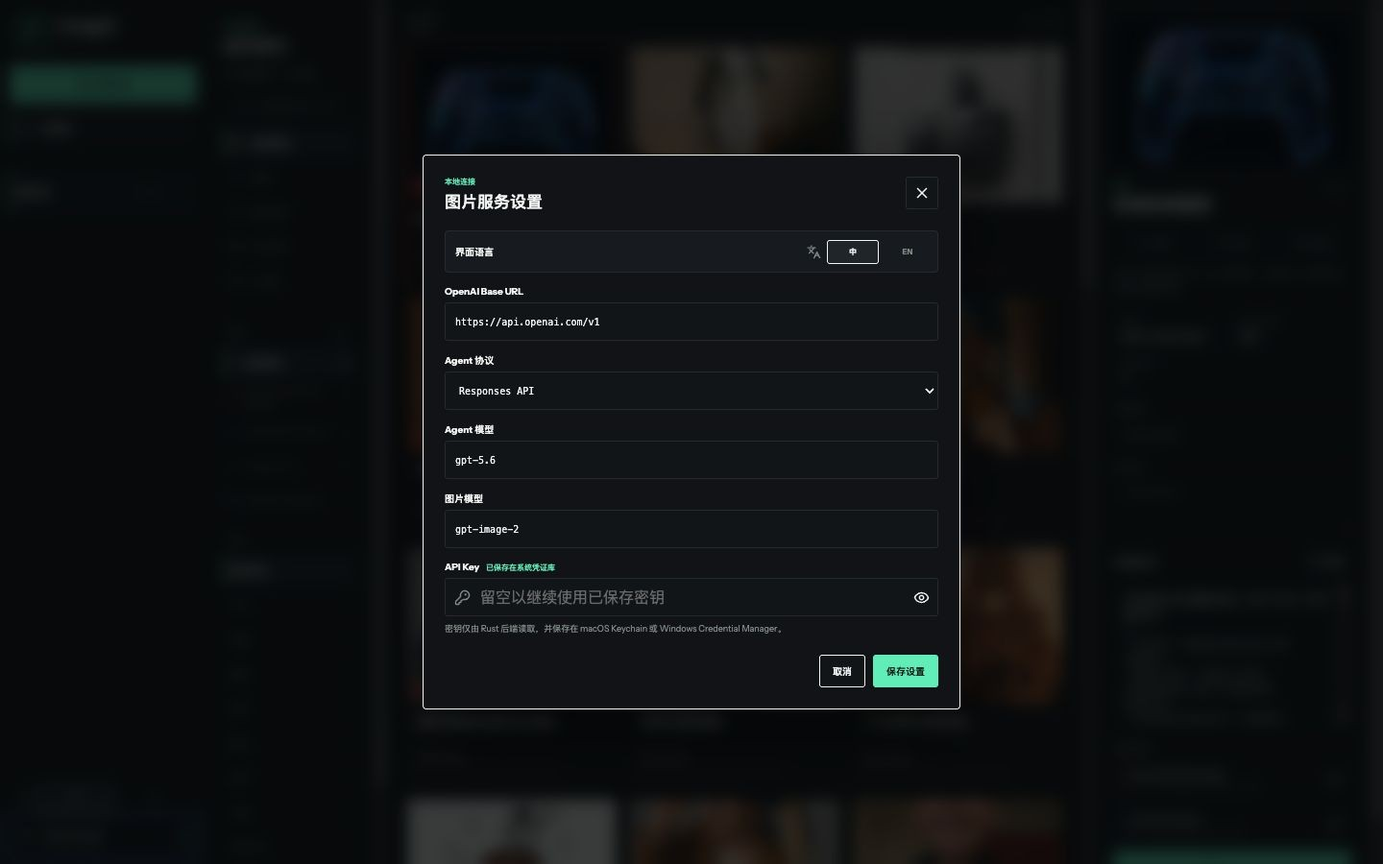
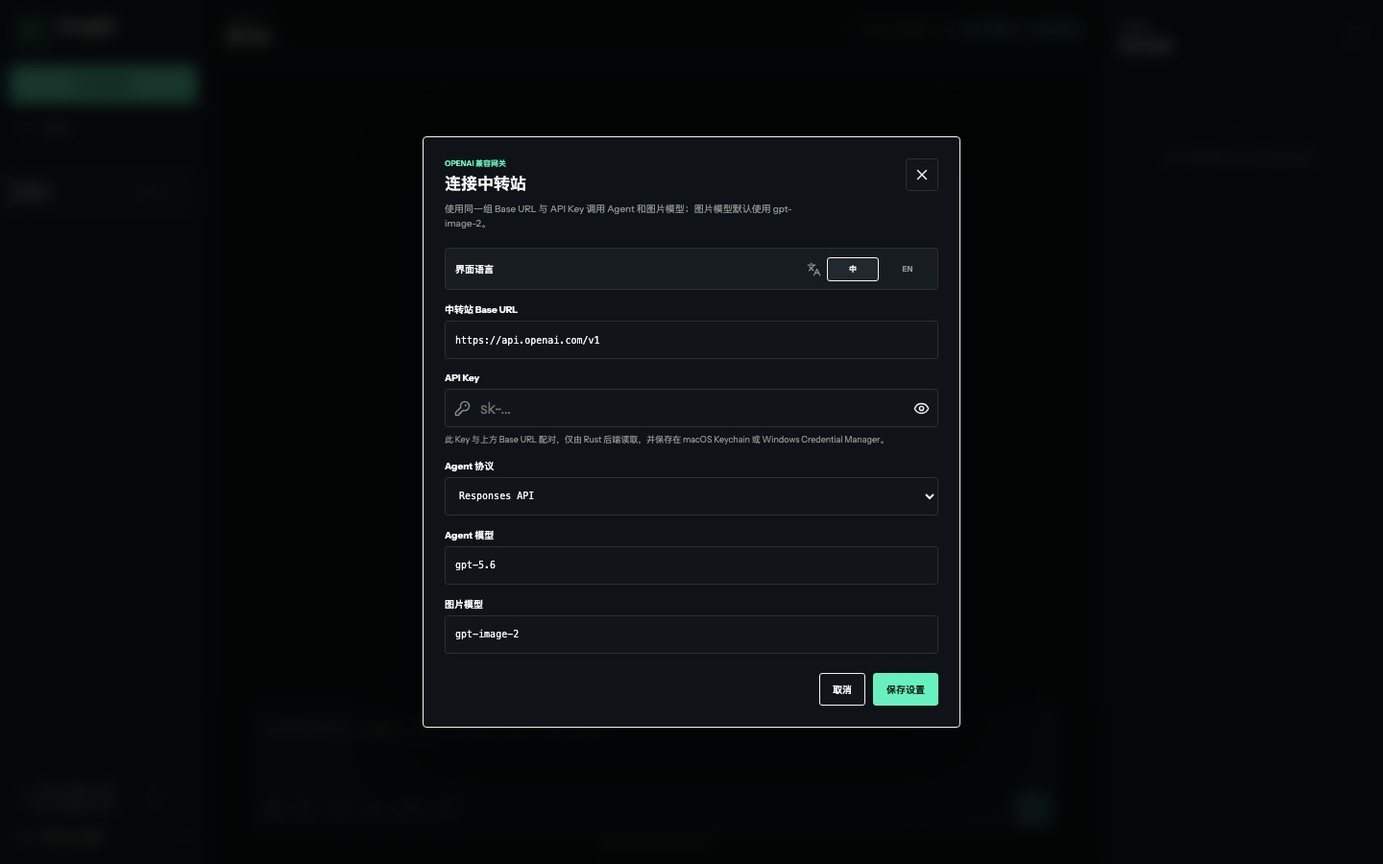
refactor: center gateway setup

diff --git a/src/i18n/en.ts b/src/i18n/en.ts
@@ -9,9 +9,9 @@ export const en = {
 
   "common.cancel": "Cancel", "common.close": "Close", "common.copy": "Copy", "common.copied": "Copied", "common.delete": "Delete", "common.done": "Done", "common.download": "Export", "common.error": "Error", "common.loading": "Loading", "common.normal": "Normal", "common.other": "Other", "common.save": "Save", "common.saving": "Saving", "common.stale": "Stale snapshot", "common.unknownError": "Unknown error", "common.items": "ITEMS", "common.auto": "Auto", "common.adaptive": "Adaptive",
 
-  "settings.eyebrow": "Local connection", "settings.title": "Image service settings", "settings.open": "Connection settings", "settings.close": "Close settings", "settings.baseUrl": "OpenAI Base URL", "settings.agentProtocol": "Agent protocol", "settings.responsesApi": "Responses API", "settings.chatCompletions": "Chat Completions", "settings.agentModel": "Agent model", "settings.imageModel": "Image model", "settings.apiKey": "API Key", "settings.apiKeySaved": "Saved in system credential store", "settings.keepSavedKey": "Leave blank to keep using the saved key", "settings.showKey": "Show key", "settings.hideKey": "Hide key", "settings.keyNote": "The key is read only by the Rust backend and stored in macOS Keychain or Windows Credential Manager.", "settings.save": "Save settings", "settings.saved": "Connection settings saved",
+  "settings.eyebrow": "OPENAI-COMPATIBLE GATEWAY", "settings.title": "Connect a gateway", "settings.description": "Use one Base URL and API key for both the agent and image model; the default image model is gpt-image-2.", "settings.open": "Gateway settings", "settings.close": "Close settings", "settings.baseUrl": "Gateway Base URL", "settings.agentProtocol": "Agent protocol", "settings.responsesApi": "Responses API", "settings.chatCompletions": "Chat Completions", "settings.agentModel": "Agent model", "settings.imageModel": "Image model", "settings.apiKey": "API Key", "settings.apiKeySaved": "Saved in system credential store", "settings.keepSavedKey": "Leave blank to keep using the saved key", "settings.showKey": "Show key", "settings.hideKey": "Hide key", "settings.keyNote": "This key is paired with the Base URL above, read only by the Rust backend, and stored in macOS Keychain or Windows Credential Manager.", "settings.save": "Save settings", "settings.saved": "Gateway settings saved",
 
-  "app.loadingWorkspace": "Loading local workspace", "app.configureApiKey": "Configure an API Key first", "app.sendCancelled": "Send cancelled; no image tasks were created", "app.continueDefaultPrompt": "Continue from this image and only change what I describe next.", "app.continueAttached": "This version is now the reference for the next step", "app.regenerateReady": "The original task is back in the composer; send it to regenerate", "app.versionRenamed": "Version name updated", "app.hideVersionConfirm": "Hide this version? Its file and version relationships will remain.", "app.hideVersionChildrenConfirm": "This version has {count} child versions. Hiding it will not delete files or child versions. Continue?", "app.versionHidden": "Version hidden from the asset picker", "app.templateAdded": "“{title}” was added to the current conversation", "app.catalogChecked": "Inspiration catalog checked: {added} added, {updated} updated, {archived} archived", "app.catalogImported": "Local inspiration data imported", "app.deleteConversationConfirm": "Delete this conversation? Generated images will remain in asset history.", "app.closeNotice": "Dismiss notification",
+  "app.loadingWorkspace": "Loading local workspace", "app.configureApiKey": "Configure a Base URL and API key in Gateway settings first", "app.sendCancelled": "Send cancelled; no image tasks were created", "app.continueDefaultPrompt": "Continue from this image and only change what I describe next.", "app.continueAttached": "This version is now the reference for the next step", "app.regenerateReady": "The original task is back in the composer; send it to regenerate", "app.versionRenamed": "Version name updated", "app.hideVersionConfirm": "Hide this version? Its file and version relationships will remain.", "app.hideVersionChildrenConfirm": "This version has {count} child versions. Hiding it will not delete files or child versions. Continue?", "app.versionHidden": "Version hidden from the asset picker", "app.templateAdded": "“{title}” was added to the current conversation", "app.catalogChecked": "Inspiration catalog checked: {added} added, {updated} updated, {archived} archived", "app.catalogImported": "Local inspiration data imported", "app.deleteConversationConfirm": "Delete this conversation? Generated images will remain in asset history.", "app.closeNotice": "Dismiss notification",
 
   "workspace.newConversation": "New conversation", "workspace.renameConversation": "Rename conversation", "workspace.deleteConversation": "Delete {title}", "workspace.deleteConversationTitle": "Delete conversation", "workspace.mainNavigation": "Main navigation", "workspace.inspiration": "Inspiration", "workspace.conversationList": "Conversation list", "workspace.currentConversation": "Current conversation", "workspace.you": "You", "workspace.agentThinking": "Understanding the request and planning tasks", "workspace.emptyTitle": "Start with a goal", "workspace.emptyDescription": "Upload references and describe the assets you need. The Agent will split them into tasks and generate them in order.", "workspace.examplePortrait": "Character views", "workspace.exampleProduct": "Product angles", "workspace.exampleCampaign": "Campaign assets", "workspace.annotationEdit": "Annotated edit", "workspace.historyImage": "History image", "workspace.moveEarlier": "Move {name} earlier", "workspace.moveLater": "Move {name} later", "workspace.moveEarlierTitle": "Move earlier", "workspace.moveLaterTitle": "Move later", "workspace.removeAttachment": "Remove attachment", "workspace.priority": "{label} priority", "workspace.analyzingReference": "Analyzing reference", "workspace.analyzingReferenceDescription": "The Agent is choosing a better aspect ratio and quality.", "workspace.recommendation": "Recommended {aspectRatio} · {quality}", "workspace.applyRecommendation": "Apply recommendation", "workspace.keepCurrent": "Keep current", "workspace.composerPlaceholder": "Describe a set of images, for example: keep this makeup and generate three views", "workspace.composerLabel": "Message Image2 Agent", "workspace.insertReference": "Insert reference", "workspace.addReference": "Add reference image", "workspace.selectHistory": "Choose history image", "workspace.historyAssets": "Asset history", "workspace.inspectEditRequest": "Inspect edit request", "workspace.generationParams": "Generation parameters", "workspace.resolution": "Resolution", "workspace.aspectRatio": "Aspect ratio", "workspace.quality": "Quality", "workspace.format": "Format", "workspace.qualityLow": "Draft", "workspace.qualityMedium": "Standard", "workspace.qualityHigh": "High", "workspace.send": "Send", "workspace.cancelSend": "Cancel send", "workspace.serialQueueNote": "Tasks run one at a time in the queue on the right", "workspace.noAssets": "No images available yet.", "workspace.closeAssetPicker": "Close asset picker", "workspace.runwayEyebrow": "Runway", "workspace.serialTasks": "Serial tasks", "workspace.queueEmpty": "Tasks created by the Agent will appear here in order.", "workspace.taskCount": "{count} tasks", "workspace.stopBatch": "Stop batch", "workspace.resumeBatch": "Resume batch", "workspace.editRequest": "Edit request", "workspace.structuredDocumentCount": "{count} structured documents", "workspace.closeRequestInspection": "Close request inspection", "workspace.referenceRole": "{label} reference roles", "workspace.primaryRole": "Primary role: {role}", "workspace.primaryRoleCompact": "Primary:{role}", "workspace.preserveConstraints": "Preserve", "workspace.preservePlaceholder": "Subject structure, unmarked areas", "workspace.preview": "Preview {title}", "workspace.annotationAttachment": "Annotation: {instruction}", "workspace.generatedImage": "Generated image", "workspace.regenerate": "Regenerate {title}", "workspace.regenerateTitle": "Regenerate", "workspace.continue": "Continue from {title}", "workspace.continueTitle": "Continue from this image", "workspace.exportTitle": "Export {title}", "workspace.compare": "Compare {title}", "workspace.compareTitle": "Before/after", "workspace.renameVersion": "Rename {title}", "workspace.renameVersionTitle": "Rename version", "workspace.versionNamePrompt": "Version name", "workspace.hideVersion": "Hide {title}", "workspace.hideVersionTitle": "Hide version", "workspace.annotate": "Annotate {title}", "workspace.annotateTitle": "Annotated edit", "workspace.revision": "R{revision} · {kind}", "workspace.childVersion": "Child version", "workspace.rootVersion": "Root version", "workspace.branchCount": "{count} branches", "workspace.retry": "Retry {title}", "workspace.retryTitle": "Retry", "workspace.compareDialog": "Before/after comparison", "workspace.versionCompare": "Version comparison", "workspace.parentVersion": "Parent version", "workspace.currentVersion": "Current version", "workspace.selectSibling": "Choose sibling version", "workspace.closeCompare": "Close comparison", "workspace.adjustCompare": "Adjust before/after comparison",
 

diff --git a/site/en/index.html b/site/en/index.html
@@ -88,7 +88,7 @@
         </div>
       </section>
 
-      <section class="studio-section" id="studio" aria-labelledby="studio-title"><div class="section-shell"><header class="section-heading split-heading"><div><p class="section-index">DESKTOP SYSTEM</p><h2 id="studio-title">Not another prompt box.</h2></div><p>Image2 puts conversations, references, generation controls, serial tasks, and versioned results on one quiet desktop surface. Your key stays in the OS credential store; images and conversations stay local.</p></header><figure class="studio-figure"><img src="/images/studio-workspace-dark.jpg" width="1920" height="1080" alt="Image2 Studio dark desktop workspace" loading="lazy" /><figcaption><span>LIVE INTERFACE</span><span>Conversation / References / Serial Queue / Versions</span></figcaption></figure><div class="feature-ledger"><article><span>01 / CONNECT</span><h3>Use your gateway</h3><p>Set an HTTPS Base URL, Responses or Chat Completions, and your agent and image model names.</p></article><article><span>02 / COMPOSE</span><h3>Describe and reference</h3><p>Assign identity, product, pose, composition, material, and style roles to references.</p></article><article><span>03 / CONTROL</span><h3>Run a strict queue</h3><p>Every direction is its own task, with clear stop, resume, retry, and cost-control states.</p></article><article><span>04 / REFINE</span><h3>Continue from any version</h3><p>Mark regions for local changes, preserve parent-child history, and branch from older results.</p></article></div></div></section>
+      <section class="studio-section" id="studio" aria-labelledby="studio-title"><div class="section-shell"><header class="section-heading split-heading"><div><p class="section-index">DESKTOP SYSTEM</p><h2 id="studio-title">Not another prompt box.</h2></div><p>Image2 puts conversations, references, generation controls, serial tasks, and versioned results on one quiet desktop surface. Your key stays in the OS credential store; images and conversations stay local.</p></header><figure class="studio-figure"><img src="/images/studio-workspace-dark.jpg" width="1920" height="1080" alt="Image2 Studio dark desktop workspace" loading="lazy" /><figcaption><span>LIVE INTERFACE</span><span>Conversation / References / Serial Queue / Versions</span></figcaption></figure><div class="feature-ledger"><article><span>01 / CONNECT</span><h3>Use your gateway</h3><p>Enter an HTTPS Base URL and API key, choose the agent protocol, and set the agent and gpt-image-2 model names.</p></article><article><span>02 / COMPOSE</span><h3>Describe and reference</h3><p>Assign identity, product, pose, composition, material, and style roles to references.</p></article><article><span>03 / CONTROL</span><h3>Run a strict queue</h3><p>Every direction is its own task, with clear stop, resume, retry, and cost-control states.</p></article><article><span>04 / REFINE</span><h3>Continue from any version</h3><p>Mark regions for local changes, preserve parent-child history, and branch from older results.</p></article></div></div></section>
 
       <section class="workflow-section" id="workflow" aria-labelledby="workflow-title"><div class="section-shell workflow-layout"><header><p class="section-index">TASK PIPELINE</p><h2 id="workflow-title">Complex requests, executed in order.</h2><p>The agent understands and plans. The desktop app turns every paid call into a visible task you can stop, resume, and inspect.</p></header><ol class="workflow-list"><li><span>INPUT</span><div><h3>Write the goal, add references</h3><p>One request can combine subjects, style, copy, ratio, and multiple reference images.</p></div><code>01</code></li><li><span>PLAN</span><div><h3>Split it into images</h3><p>Every output has a title, prompt, parameters, and explicit reference relationships.</p></div><code>02</code></li><li><span>RUN</span><div><h3>Execute strictly in series</h3><p>Only one image task runs at a time, avoiding gateway rate limits and surprise concurrency costs.</p></div><code>03</code></li><li><span>ITERATE</span><div><h3>Mark and continue</h3><p>Points, boxes, arrows, and painted regions compile into a structured edit request.</p></div><code>04</code></li></ol></div></section>
 

diff --git a/src/components/SettingsDialog.tsx b/src/components/SettingsDialog.tsx
@@ -49,6 +49,7 @@ export function SettingsDialog({ open, settings, onClose, onSave }: SettingsDial
           <div>
             <span className="eyebrow">{t("settings.eyebrow")}</span>
             <h2>{t("settings.title")}</h2>
+            <p className="dialog-description">{t("settings.description")}</p>
           </div>
           <button className="icon-button" type="button" onClick={onClose} aria-label={t("settings.close")} title={t("common.close")}>
             <X size={18} />
@@ -69,6 +70,24 @@ export function SettingsDialog({ open, settings, onClose, onSave }: SettingsDial
           placeholder="https://api.openai.com/v1"
           required
         />
+
+        <label className="field-label" htmlFor="api-key">
+          {t("settings.apiKey")} {settings.hasApiKey && <span className="saved-badge">{t("settings.apiKeySaved")}</span>}
+        </label>
+        <div className="key-input-wrap">
+          <KeyRound size={17} aria-hidden="true" />
+          <input
+            id="api-key"
+            value={apiKey}
+            onChange={(event) => setApiKey(event.target.value)}
+            type={showKey ? "text" : "password"}
+            placeholder={settings.hasApiKey ? t("settings.keepSavedKey") : "sk-..."}
+          />
+          <button type="button" onClick={() => setShowKey((value) => !value)} aria-label={showKey ? t("settings.hideKey") : t("settings.showKey")} title={showKey ? t("settings.hideKey") : t("settings.showKey")}>
+            {showKey ? <EyeOff size={17} /> : <Eye size={17} />}
+          </button>
+        </div>
+        <p className="field-note">{t("settings.keyNote")}</p>
 
         <label className="field-label" htmlFor="agent-protocol">{t("settings.agentProtocol")}</label>
         <select id="agent-protocol" className="text-input mono" value={agentProtocol} onChange={(event) => setAgentProtocol(event.target.value as typeof agentProtocol)}>
@@ -95,24 +114,6 @@ export function SettingsDialog({ open, settings, onClose, onSave }: SettingsDial
           placeholder="gpt-image-2"
           required
         />
-
-        <label className="field-label" htmlFor="api-key">
-          {t("settings.apiKey")} {settings.hasApiKey && <span className="saved-badge">{t("settings.apiKeySaved")}</span>}
-        </label>
-        <div className="key-input-wrap">
-          <KeyRound size={17} aria-hidden="true" />
-          <input
-            id="api-key"
-            value={apiKey}
-            onChange={(event) => setApiKey(event.target.value)}
-            type={showKey ? "text" : "password"}
-            placeholder={settings.hasApiKey ? t("settings.keepSavedKey") : "sk-..."}
-          />
-          <button type="button" onClick={() => setShowKey((value) => !value)} aria-label={showKey ? t("settings.hideKey") : t("settings.showKey")} title={showKey ? t("settings.hideKey") : t("settings.showKey")}>
-            {showKey ? <EyeOff size={17} /> : <Eye size={17} />}
-          </button>
-        </div>
-        <p className="field-note">{t("settings.keyNote")}</p>
 
         <div className="dialog-actions">
           <button className="button secondary" type="button" onClick={onClose}>{t("common.cancel")}</button>

diff --git a/src/i18n/zh-CN.ts b/src/i18n/zh-CN.ts
@@ -24,11 +24,12 @@ export const zhCN = {
   "common.auto": "自动",
   "common.adaptive": "自适应",
 
-  "settings.eyebrow": "本地连接",
-  "settings.title": "图片服务设置",
-  "settings.open": "连接设置",
+  "settings.eyebrow": "OPENAI 兼容网关",
+  "settings.title": "连接中转站",
+  "settings.description": "使用同一组 Base URL 与 API Key 调用 Agent 和图片模型；图片模型默认使用 gpt-image-2。",
+  "settings.open": "网关设置",
   "settings.close": "关闭设置",
-  "settings.baseUrl": "OpenAI Base URL",
+  "settings.baseUrl": "中转站 Base URL",
   "settings.agentProtocol": "Agent 协议",
   "settings.responsesApi": "Responses API",
   "settings.chatCompletions": "Chat Completions",
@@ -39,12 +40,12 @@ export const zhCN = {
   "settings.keepSavedKey": "留空以继续使用已保存密钥",
   "settings.showKey": "显示密钥",
   "settings.hideKey": "隐藏密钥",
-  "settings.keyNote": "密钥仅由 Rust 后端读取，并保存在 macOS Keychain 或 Windows Credential Manager。",
+  "settings.keyNote": "此 Key 与上方 Base URL 配对，仅由 Rust 后端读取，并保存在 macOS Keychain 或 Windows Credential Manager。",
   "settings.save": "保存设置",
   "settings.saved": "连接设置已保存",
 
   "app.loadingWorkspace": "正在载入本地工作区",
-  "app.configureApiKey": "请先配置 API Key",
+  "app.configureApiKey": "请先在网关设置中配置 Base URL 与 API Key",
   "app.sendCancelled": "已取消发送，未创建图片任务",
   "app.continueDefaultPrompt": "基于这张图继续，只修改我接下来说明的内容。",
   "app.continueAttached": "已将该版本作为下一步参考图",

diff --git a/src/components/AgentWorkspace.tsx b/src/components/AgentWorkspace.tsx
@@ -132,6 +132,9 @@ export function AgentWorkspace(props: AgentWorkspaceProps) {
   const recommending = draft.recommendation?.status === "loading";
   const working = props.analyzing || recommending;
   const qualityLabels: Record<Quality, string> = { low: t("workspace.qualityLow"), medium: t("workspace.qualityMedium"), high: t("workspace.qualityHigh") };
+  const gatewayHost = useMemo(() => {
+    try { return new URL(props.settings.baseUrl).host; } catch { return props.settings.baseUrl; }
+  }, [props.settings.baseUrl]);
 
   const addFiles = async (files: File[]) => {
     const images = files.filter((file) => file.type.startsWith("image/") && file.size <= 20 * 1024 * 1024).slice(0, 4);
@@ -242,7 +245,7 @@ export function AgentWorkspace(props: AgentWorkspaceProps) {
       <main className="chat-workspace">
         <header className="chat-header">
           <div><span>{t("workspace.currentConversation")}</span><h1>{conversation.title === "新对话" || conversation.title === "New conversation" ? t("workspace.newConversation") : conversation.title}</h1></div>
-          <div className="model-readout"><i className={props.settings.hasApiKey ? "online" : ""} /><span>{props.settings.agentModel}</span><code>{props.settings.agentProtocol === "responses" ? "RESPONSES" : "CHAT"}</code></div>
+          <div className="model-readout" title={`${gatewayHost} / ${props.settings.agentModel} / ${props.settings.imageModel}`}><i className={props.settings.hasApiKey ? "online" : ""} /><span>{gatewayHost}</span><code>{props.settings.imageModel}</code><code>{props.settings.agentProtocol === "responses" ? "RESPONSES" : "CHAT"}</code></div>
         </header>
 
         <div className="message-scroll">

diff --git a/site/index.html b/site/index.html
@@ -166,7 +166,7 @@
             <figcaption><span>LIVE INTERFACE</span><span>Conversation / References / Serial Queue / Versions</span></figcaption>
           </figure>
           <div class="feature-ledger">
-            <article><span>01 / CONNECT</span><h3>接入你的网关</h3><p>自定义 HTTPS Base URL、Responses 或 Chat Completions、Agent 模型与图片模型。</p></article>
+            <article><span>01 / CONNECT</span><h3>接入你的网关</h3><p>填写 HTTPS Base URL 与 API Key，选择 Agent 协议，并指定 Agent 与 gpt-image-2 模型。</p></article>
             <article><span>02 / COMPOSE</span><h3>描述目标与参考</h3><p>参考图可以分配身份、产品、姿势、构图、材质和风格角色，不再混成一团。</p></article>
             <article><span>03 / CONTROL</span><h3>严格串行执行</h3><p>每个方向都是独立任务。停止、恢复、失败重试和额度控制都有明确状态。</p></article>
             <article><span>04 / REFINE</span><h3>从任意版本继续</h3><p>用区域标注说明局部修改，保留父子版本关系，并随时从旧结果另开分支。</p></article>

diff --git a/src/styles.css b/src/styles.css
@@ -361,6 +361,7 @@ button:focus-visible, input:focus-visible, textarea:focus-visible, select:focus-
 .dialog-heading { display: flex; align-items: flex-start; justify-content: space-between; gap: 12px; margin-bottom: 18px; }
 .dialog-heading .eyebrow { display: block; margin-bottom: 3px; color: var(--proof); font-size: 8px; font-weight: 750; text-transform: uppercase; }
 .dialog-heading h2 { margin: 0; font-size: 17px; }
+.dialog-description { max-width: 390px; margin: 7px 0 0; color: var(--muted); font-size: 10px; line-height: 1.5; }
 .icon-button { display: grid; place-items: center; width: 34px; height: 34px; padding: 0; border: 1px solid var(--line); border-radius: 5px; background: var(--surface); cursor: pointer; }
 .field-label { display: block; margin: 13px 0 5px; font-size: 10px; font-weight: 700; }
 .saved-badge { margin-left: 5px; color: var(--success); font-size: 8px; }

diff --git a/src/i18n/i18n.test.tsx b/src/i18n/i18n.test.tsx
@@ -17,11 +17,11 @@ const settings: Settings = {
 describe("bilingual internationalization", () => {
   it("switches the rendered UI immediately and persists the locale", () => {
     render(<SettingsDialog open settings={settings} onClose={vi.fn()} onSave={vi.fn()} />);
-    expect(screen.getByRole("heading", { name: "图片服务设置" })).toBeInTheDocument();
+    expect(screen.getByRole("heading", { name: "连接中转站" })).toBeInTheDocument();
 
     fireEvent.click(screen.getByRole("button", { name: "Switch to English" }));
 
-    expect(screen.getByRole("heading", { name: "Image service settings" })).toBeInTheDocument();
+    expect(screen.getByRole("heading", { name: "Connect a gateway" })).toBeInTheDocument();
     expect(document.documentElement.lang).toBe("en");
     expect(localStorage.getItem("image2.locale")).toBe("en");
   });

diff --git a/src/App.test.tsx b/src/App.test.tsx
@@ -15,7 +15,7 @@ describe("Image2 Agent workspace", () => {
 
   it("opens agent connection settings on first launch", async () => {
     render(<App />);
-    expect(await screen.findByRole("form", { name: "连接设置" })).toBeInTheDocument();
+    expect(await screen.findByRole("form", { name: "网关设置" })).toBeInTheDocument();
     expect(screen.getByRole("button", { name: "新对话" })).toBeInTheDocument();
     expect(screen.getByRole("heading", { name: "串行任务" })).toBeInTheDocument();
     expect(screen.getByRole("textbox", { name: "给 Image2 Agent 发消息" })).toBeInTheDocument();

diff --git a/USER_GUIDE.md b/USER_GUIDE.md
@@ -4,6 +4,8 @@
 
 ## 1. 快速开始
 
+使用 Image2 Studio 最少只需准备两项连接信息：OpenAI 兼容中转站的 Base URL 和对应 API Key。网关同时支持所选 Agent 接口与 Images API 后，完成一次设置即可直接在桌面端使用 `gpt-image-2`，不需要自己拼请求或把 Key 放进网页。
+
 ### 1.1 启动应用
 
 安装版直接启动 Image2 Studio。源码开发环境可执行：
@@ -17,9 +19,9 @@ npm run tauri:dev
 
 ![Image2 Studio 主工作区](docs/images/manual-workspace-dark-v2.jpg)
 
-### 1.2 配置图片服务
+### 1.2 配置中转站网关与 Key
 
-首次使用先点击左下角的“连接设置”。
+首次使用先点击左下角的“连接设置”。如果还没有保存过 Key，应用会自动打开该窗口。
 
 ![连接设置](docs/images/manual-settings-dark.jpg)
 
@@ -27,13 +29,15 @@ npm run tauri:dev
 
 | 字段 | 填写说明 |
 | --- | --- |
-| OpenAI Base URL | OpenAI 或兼容网关地址，通常以 `/v1` 结尾。远程地址必须使用 HTTPS；仅本机地址允许 HTTP。 |
+| 中转站 Base URL | 中转站网关或 OpenAI 官方地址，通常以 `/v1` 结尾。远程地址必须使用 HTTPS；仅本机地址允许 HTTP。 |
 | Agent 协议 | 网关支持 `/responses` 时选 Responses API；只支持 `/chat/completions` 时选 Chat Completions。 |
 | Agent 模型 | 用于理解对话并拆分图片任务的模型。 |
 | 图片模型 | 用于文生图和图片编辑的模型。 |
 | API Key | 服务密钥。保存后输入框会清空，后续留空即可继续使用系统中已保存的密钥。 |
 
 点击“保存设置”完成配置。API Key 只交给桌面端 Rust 后端，并存放在 macOS Keychain 或 Windows Credential Manager 中，不会写入对话、项目文件或 IndexedDB。
+
+Agent 与图片模型共用这组 Base URL 和 API Key；图片模型默认填写 `gpt-image-2`。如果中转站只支持其中一个接口，Agent 拆任务或图片生成会在对应步骤明确报错。
 
 ## 2. 创建图片任务
 

diff --git a/README.md b/README.md
@@ -1,6 +1,6 @@
 # Image2 Studio
 
-Image2 Studio 是一款本地优先的 Windows / macOS 图片任务 Agent。用户通过多轮对话提交目标和参考图，Agent 将目标拆成独立生图任务，再由桌面端严格串行执行。
+Image2 Studio 是一款本地优先的 Windows / macOS 图片任务 Agent，重点解决“已有 OpenAI 兼容中转站网关和 Key，如何方便使用 `gpt-image-2`”这件事。首次打开填入 Base URL、API Key、Agent 模型和图片模型，之后即可通过多轮对话提交目标和参考图；Agent 会把目标拆成独立生图任务，再由桌面端严格串行执行。
 
 典型流程：上传一张化妆参考图并输入“保持妆容一致，生成三视图”，Agent 会根据对象和用途决定三个有价值的视角，创建三个不同提示词的任务，并逐张生成结果。
 
@@ -51,7 +51,7 @@ Rust 后端不参与任务拆解或 Agent 决策，只负责系统能力：
 
 渲染进程无法读取 API Key，也不能指定任意代理路径、HTTP 方法或认证头。远程 Base URL 必须使用 HTTPS，只有 `localhost`、`127.0.0.1` 和 `::1` 允许 HTTP。
 
-## 代理网关要求
+## 中转站 / OpenAI 兼容网关要求
 
 Agent 与图片模型共用同一个 Base URL 和 API Key。网关至少需要实现所选 Agent 协议以及 OpenAI 兼容 Images API：
 
